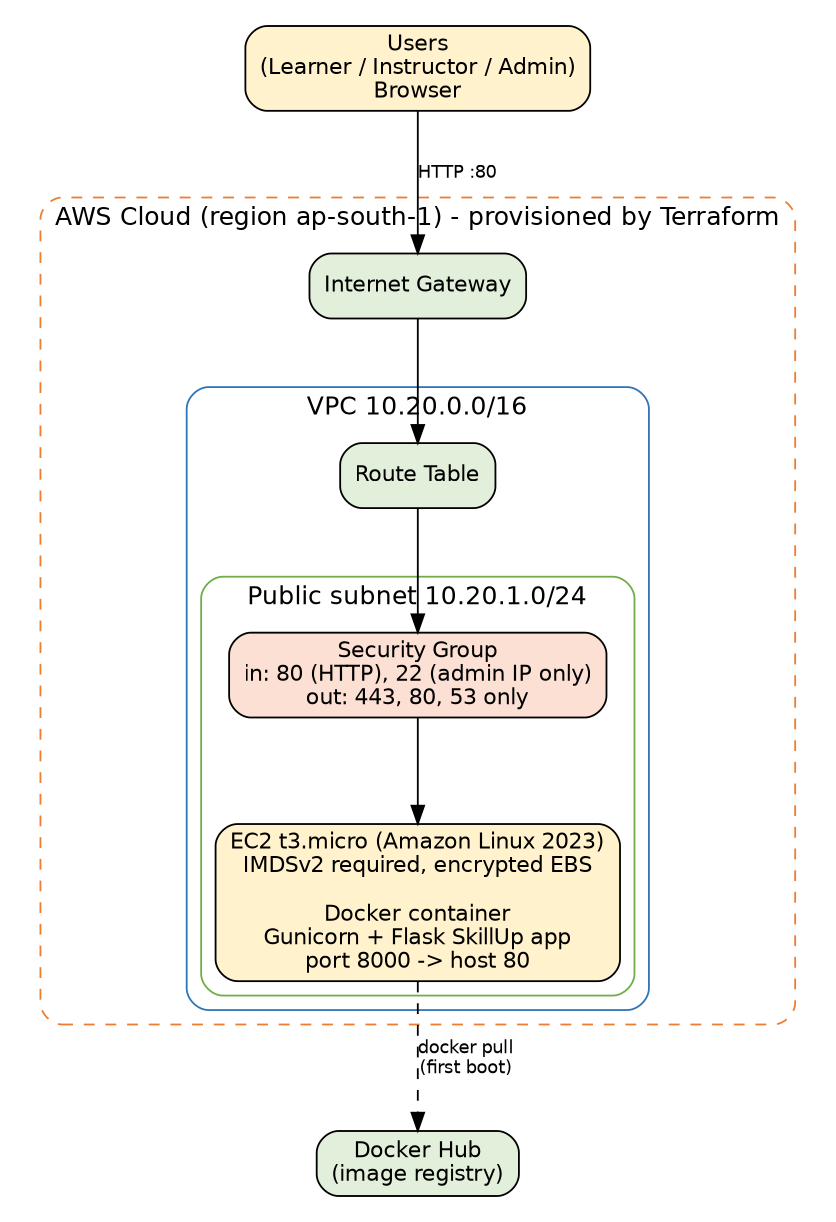
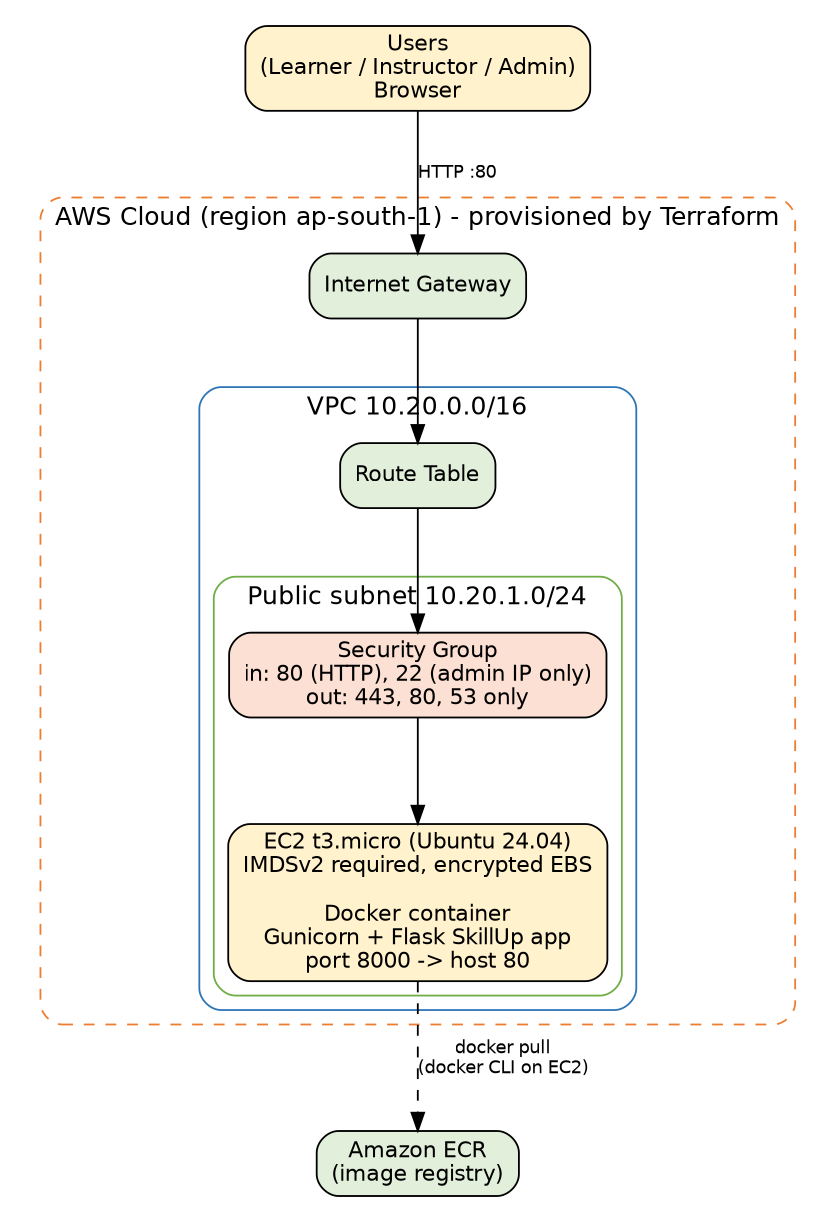
Update diagrams for ECR and Ubuntu EC2

Changed region(s): [[0.2177, 0.311, 0.7775, 0.8396], [0.4976, 0.8396, 0.6842, 0.9018], [0.4043, 0.9329, 0.5909, 0.964]]

diff --git a/docs/diagrams/cicd_plot.py b/docs/diagrams/cicd_plot.py
@@ -4,7 +4,7 @@ import matplotlib.pyplot as plt
 from matplotlib.patches import FancyBboxPatch
 steps=[("1 Checkout","git clone","#DDEBF7"),("2 Install & Test","pytest + coverage","#DDEBF7"),("3 Bandit","static code analysis","#FBE0D3"),("4 SonarQube","scan + quality gate","#FBE0D3"),
 ("5 Trivy (fs)","deps, secrets, IaC","#FBE0D3"),("6 Docker Build","docker build","#DDEBF7"),("7 Trivy (image)","scan built image","#FBE0D3"),("8 Smoke Test","run + GET /health","#DDEBF7"),
-("9 Push Image","to Docker Hub","#DDEBF7"),("10 Terraform","init / plan / apply","#E2EFDA"),("11 Post-Deploy","curl /health on EC2","#E2EFDA")]
+("9 Push Image","to Amazon ECR","#DDEBF7"),("10 Terraform","creates Ubuntu EC2","#E2EFDA"),("11 Run on EC2","docker CLI pull + run","#E2EFDA")]
 fig,ax=plt.subplots(figsize=(10,6)); ax.set_xlim(0,10); ax.set_ylim(0,6.2); ax.axis("off")
 pos=[]
 for i,(t,s,c) in enumerate(steps):
@@ -16,5 +16,5 @@ for i in range(len(steps)-1):
         a,b=(x1+2.0,x2) if x2>x1 else (x1,x2+2.0); ax.annotate("",xy=(b,y2+0.5),xytext=(a,y1+0.5),arrowprops=dict(arrowstyle="-|>",lw=1.4))
     else: ax.annotate("",xy=(x2+1,y2+1.0),xytext=(x1+1,y1),arrowprops=dict(arrowstyle="-|>",lw=1.4))
 ax.text(0.35,5.75,"Developer git push -> GitHub -> Jenkins (Jenkinsfile) triggers the pipeline",fontsize=10,style="italic")
-ax.text(0.35,0.25,"Red = security gates (fail the build)   |   Green = AWS deployment stages (only when DEPLOY_TO_AWS = true)",fontsize=9)
+ax.text(0.35,0.25,"Red = security gates (fail the build)   |   Green = AWS stages (Terraform only when RUN_TERRAFORM = true; step 11 is done by hand)",fontsize=9)
 plt.tight_layout(); plt.savefig("cicd_pipeline.png",dpi=150)
